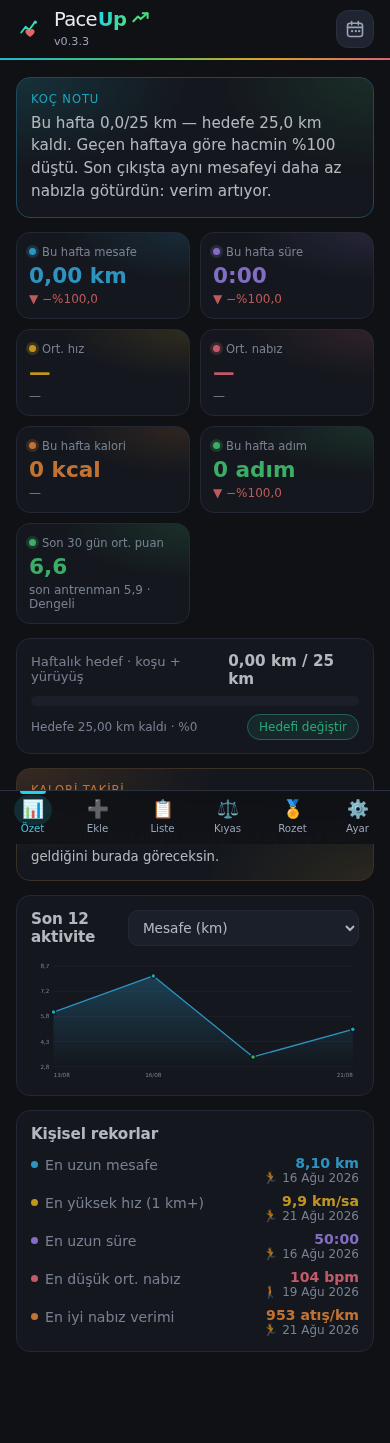
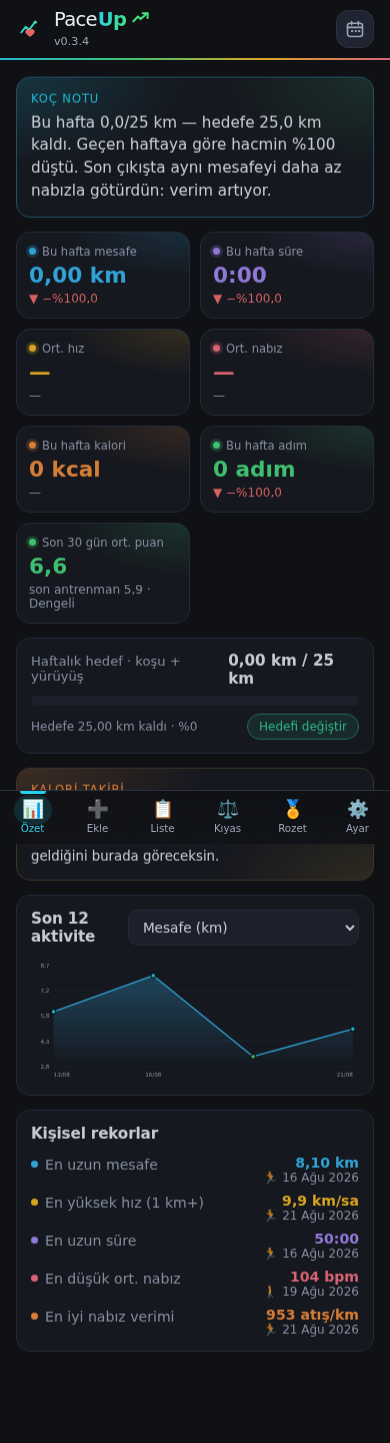
v0.3.4: mesafe rozetleri yalnizca tek antrenmanda kazanilir
Birikimli "Toplam yol" grubu kaldirildi. Ayni sayilari (100 km, 250 km)
tasidigi icin mesafe rozetlerinin de birike birike kazanildigi izlenimini
veriyordu; oysa mesafe rozetlerinin tek olcutu tek bir antrenmanda kosulan
mesafedir.

- badges.js iki gruba indi: mesafe (tek antrenmanda) ve sureklilik
- Mesafe rozetlerinin olcutu kartlarda "Tek antrenmanda" etiketiyle,
  ekran basliginda ve grup aciklamasinda acikca yaziyor
- Kilitli mesafe rozetlerinde kalan "Tek kosuda 3,00 km daha" seklinde
- Dogrulama: 5 x 3 km (toplam 15 km) 5 km rozetini acmiyor; tek cikista
  11 km kosmak 5 km ve 10 km rozetlerini birlikte aciyor

Claude-Session: https://claude.ai/code/session_01DCsTEoeQYYAT5YEcPqUbg1

diff --git a/js/badges.js b/js/badges.js
@@ -1,15 +1,19 @@
-// Rozetler üç grupta toplanır:
-//   single  — tek bir antrenmanda ulaşılan koşu mesafesi (1 km'den 100 km'ye)
+// Rozetler iki grupta toplanır:
+//   single  — TEK BİR ANTRENMANDA koşulan mesafe (1 km'den 100 km'ye).
+//             Mesafeler birikmez: 5 x 3 km koşmak 5 km rozetini açmaz;
+//             rozeti açan şey tek çıkışta o mesafeyi tamamlamaktır.
 //   streak  — süreklilik (haftalık antrenman sayısı, üst üste aktif gün)
-//   total   — birikimli toplam mesafe (koşu + yürüyüş)
 //
 // Rozet verisi saklanmaz; her zaman kayıtlardan hesaplanır. Bir kaydı silersen
 // ya da düzeltirsen rozet durumu da kendiliğinden düzelir.
 
 export const GROUPS = [
-  { id: 'single', name: 'Mesafe', desc: 'Tek bir antrenmanda koştuğun mesafe' },
+  {
+    id: 'single',
+    name: 'Mesafe',
+    desc: 'Tek bir antrenmanda koştuğun mesafe — koşular birbirine eklenmez',
+  },
   { id: 'streak', name: 'Süreklilik', desc: 'Antrenmanı alışkanlığa çevirmek' },
-  { id: 'total', name: 'Toplam yol', desc: 'Bugüne kadar biriken mesafe (koşu + yürüyüş)' },
 ];
 
 // Kademeler, kolaydan zora. En üst kademeyi bulurken bu sıra kullanılır.
@@ -90,27 +94,6 @@ export const BADGES = [
     note: 'Otuz gün kesintisiz — alışkanlığın artık kendini taşıdığı eşik.',
   },
 
-  // --- Toplam yol ---
-  {
-    id: 'total-100', group: 'total', target: 100, unit: 'km', kind: 'total',
-    name: '100 km', title: 'İlk yüz', level: 'Amatör', color: '#38bdf8',
-    note: 'Maraton mesafesinin yaklaşık 2,4 katı.',
-  },
-  {
-    id: 'total-250', group: 'total', target: 250, unit: 'km', kind: 'total',
-    name: '250 km', title: 'Yol alan', level: 'Deneyimli', color: '#4ade80',
-    note: 'Yarı maratonun yaklaşık 12 katı.',
-  },
-  {
-    id: 'total-500', group: 'total', target: 500, unit: 'km', kind: 'total',
-    name: '500 km', title: 'Uzun yol', level: 'İleri', color: '#fbbf24',
-    note: 'Haftada 10 km ile yaklaşık bir yıl demek.',
-  },
-  {
-    id: 'total-1000', group: 'total', target: 1000, unit: 'km', kind: 'total',
-    name: '1000 km', title: 'Bin kilometre', level: 'Profesyonel', color: '#fb7185',
-    note: 'Maratonun 23 katı; ciddi koşucuların yıllık hacmi.',
-  },
 ];
 
 /* ---------- Ölçüler ---------- */
@@ -161,23 +144,12 @@ function firstQualifying(runs, km) {
   return qualified.reduce((earliest, a) => (!earliest || a.date < earliest.date ? a : earliest), null);
 }
 
-// Toplam mesafe hedefinin aşıldığı ilk gün (eskiden yeniye biriktirerek)
-function totalReachedOn(activities, km) {
-  const chronological = [...activities].sort((a, b) => a.date.localeCompare(b.date));
-  let sum = 0;
-  for (const a of chronological) {
-    sum += a.distanceKm;
-    if (sum >= km) return a;
-  }
-  return null;
-}
-
 /* ---------- Durum ---------- */
 
 export function badgeState(activities) {
   const runs = activities.filter((a) => a.type === 'run' && a.distanceKm > 0);
+  // Tek antrenmandaki en uzun koşu — mesafe rozetlerinin tek ölçütü budur.
   const bestRun = runs.reduce((m, a) => Math.max(m, a.distanceKm), 0);
-  const totalKm = activities.reduce((s, a) => s + a.distanceKm, 0);
   const week = bestWeek(activities);
   const streak = bestStreak(activities);
 
@@ -189,9 +161,6 @@ export function badgeState(activities) {
       current = week.count;
     } else if (badge.kind === 'streak') {
       current = streak.length;
-    } else if (badge.kind === 'total') {
-      current = totalKm;
-      activity = current >= badge.target ? totalReachedOn(activities, badge.target) : null;
     } else {
       current = bestRun;
       activity = firstQualifying(runs, badge.target);

diff --git a/js/app.js b/js/app.js
@@ -11,7 +11,7 @@ import {
   fmtHr, fmtDate, todayIso, fmtPercent,
 } from './format.js';
 
-const APP_VERSION = '0.3.3';
+const APP_VERSION = '0.3.4';
 const $ = (sel) => document.querySelector(sel);
 const $$ = (sel) => [...document.querySelectorAll(sel)];
 
@@ -671,7 +671,7 @@ function badgeProgressText(state) {
   const { badge, remaining } = state;
   if (badge.kind === 'weekly') return `${Math.ceil(remaining)} antrenman daha`;
   if (badge.kind === 'streak') return `${Math.ceil(remaining)} gün daha`;
-  return `${fmtKm(remaining)} kaldı`;
+  return `Tek koşuda ${fmtKm(remaining)} daha`;
 }
 
 function badgeEarnedText(state) {
@@ -681,9 +681,6 @@ function badgeEarnedText(state) {
   }
   if (badge.kind === 'streak') {
     return `En uzun serin: ${current} gün<br>${fmtDate(context.start)} – ${fmtDate(context.end)}`;
-  }
-  if (badge.kind === 'total') {
-    return activity ? `${fmtDate(activity.date)}<br>toplamda ${fmtKm(current)}` : `Toplam ${fmtKm(current)}`;
   }
   return `${fmtDate(activity.date)}<br>${fmtKm(activity.distanceKm)} · ${fmtDuration(activity.durationSec)}`;
 }
@@ -726,6 +723,9 @@ function renderBadges() {
             <div class="btitle">${badge.title}</div>
             <div class="blevel">${badge.level}</div>
             <div class="bnote">${badge.note}</div>
+            ${badge.group === 'single'
+              ? '<div class="bcrit">Tek antrenmanda</div>'
+              : ''}
             ${on
               ? `<div class="earned-tag">Kazanıldı</div>
                  <div class="bmeta">${badgeEarnedText(state)}</div>`

diff --git a/index.html b/index.html
@@ -28,7 +28,7 @@
                 stroke-width="2.4" stroke-linecap="round" stroke-linejoin="round"/>
         </svg>
       </h1>
-      <span class="ver" id="appVersion">v0.3.3</span>
+      <span class="ver" id="appVersion">v0.3.4</span>
     </div>
   </div>
   <div class="topbar-actions">
@@ -214,8 +214,9 @@
   <!-- ROZETLER -->
   <section id="view-badges" class="view" hidden aria-labelledby="t-badges">
     <h2 id="t-badges">Hedefler ve rozetler</h2>
-    <p class="muted" style="margin:-6px 0 14px">Her hedef <b>tek bir antrenmanda</b>
-      ulaşılması gereken koşu mesafesidir. Başardığında rozet açılır.</p>
+    <p class="muted" style="margin:-6px 0 14px">Mesafe rozetleri <b>tek bir antrenmanda</b>
+      o mesafeyi tamamlayınca açılır — koşular birbirine eklenmez. Beş kez 3 km koşmak
+      5 km rozetini vermez; tek çıkışta 5 km gerekir.</p>
     <div id="badgeSummary"></div>
     <div id="badgeGrid" class="badge-grid"></div>
   </section>

diff --git a/css/styles.css b/css/styles.css
@@ -562,6 +562,10 @@ button:active { transform: translateY(1px); }
   font-size: 0.72rem; color: var(--muted); line-height: 1.45;
   border-top: 1px solid var(--line); padding-top: 8px; margin-top: 2px;
 }
+.badge .bcrit {
+  font-size: 0.66rem; color: var(--muted);
+  border: 1px solid var(--line); border-radius: 999px; padding: 2px 8px;
+}
 .badge .bmeta { font-size: 0.72rem; color: var(--muted); line-height: 1.4; }
 .badge .bbar { width: 100%; height: 6px; border-radius: 999px; background: var(--surface-2); overflow: hidden; }
 .badge .bbar i { display: block; height: 100%; border-radius: 999px; background: var(--badge-color); opacity: 0.75; }

diff --git a/sw.js b/sw.js
@@ -1,5 +1,5 @@
 // Basit önbellek: uygulama kabuğu offline çalışsın.
-const VERSION = 'paceup-v0.3.3';
+const VERSION = 'paceup-v0.3.4';
 const ASSETS = [
   './',
   './index.html',

diff --git a/README.md b/README.md
@@ -4,7 +4,7 @@ Koşularını ve yürüyüşlerini kaydettiğin, nabız / mesafe / tempo değerl
 arasında kıyaslayan küçük bir PWA. Derleme adımı yok: saf HTML + CSS + ES modülleri.
 Veriler yalnızca cihazda (`localStorage`) tutulur, hiçbir yere gönderilmez.
 
-**Sürüm:** v0.3.3
+**Sürüm:** v0.3.4
 
 ## Neler var
 
@@ -35,8 +35,8 @@ Veriler yalnızca cihazda (`localStorage`) tutulur, hiçbir yere gönderilmez.
   göre renkli noktayla işaretlenir; bir güne dokununca o günün antrenmanları altta
   listelenir, puan rozetine dokununca puan ekranı açılır. Ay başlığındaki oklarla
   aylar arasında gezinilir, üstte o ayın toplamları görünür.
-- **Hedefler ve rozetler:** üç grupta 18 rozet — tek antrenmanda mesafe (1 km'den
-  100 km'ye), süreklilik ve toplam yol. Her rozette mesafenin neye denk geldiğini
+- **Hedefler ve rozetler:** iki grupta 14 rozet — tek antrenmanda mesafe (1 km'den
+  100 km'ye) ve süreklilik. Her rozette mesafenin neye denk geldiğini
   anlatan kısa bir not ve kademe etiketi (Başlangıç → Profesyonel) bulunur. Kilitli
   rozetler ilerleme çubuğu ve kalanı gösterir; yeni rozet kazandıran bir kayıt
   girildiğinde puan ekranının üstünde kutlama şeridi çıkar.
@@ -105,6 +105,10 @@ Kart bunu kendi üzerinde de yazar.
 Rozetler saklanmaz; her açılışta kayıtlardan hesaplanır. Bir kaydı silersen ya da
 düzeltirsen rozet durumu da kendiliğinden düzelir.
 
+**Mesafe rozetlerinin tek ölçütü, tek bir antrenmanda koşulan mesafedir.** Koşular
+birikmez: beş kez 3 km koşmak (toplam 15 km) 5 km rozetini açmaz; rozeti açan şey
+tek çıkışta o mesafeyi tamamlamaktır. Rozeti, hedefi ilk kez geçen koşu kazandırır.
+
 **Mesafe — tek bir antrenmanda koşu** (yürüyüşler sayılmaz)
 
 | Rozet | Hedef | Kademe | Not |
@@ -128,15 +132,6 @@ düzeltirsen rozet durumu da kendiliğinden düzelir.
 | Beşli hafta | Bir takvim haftasında 5 antrenman | Deneyimli |
 | Bir hafta seri | 7 gün üst üste aktif | Deneyimli |
 | Bir ay seri | 30 gün üst üste aktif | Profesyonel |
-
-**Toplam yol** (koşu + yürüyüş, birikimli)
-
-| Rozet | Hedef | Kademe |
-|---|---|---|
-| İlk yüz | 100 km | Amatör |
-| Yol alan | 250 km | Deneyimli |
-| Uzun yol | 500 km | İleri |
-| Bin kilometre | 1000 km | Profesyonel |
 
 Süreklilik rozetlerinde "en yoğun hafta" ve "en uzun seri" tüm geçmiş taranarak
 bulunur; kazanıldığında hangi hafta ya da hangi tarih aralığı olduğunu da yazar.
